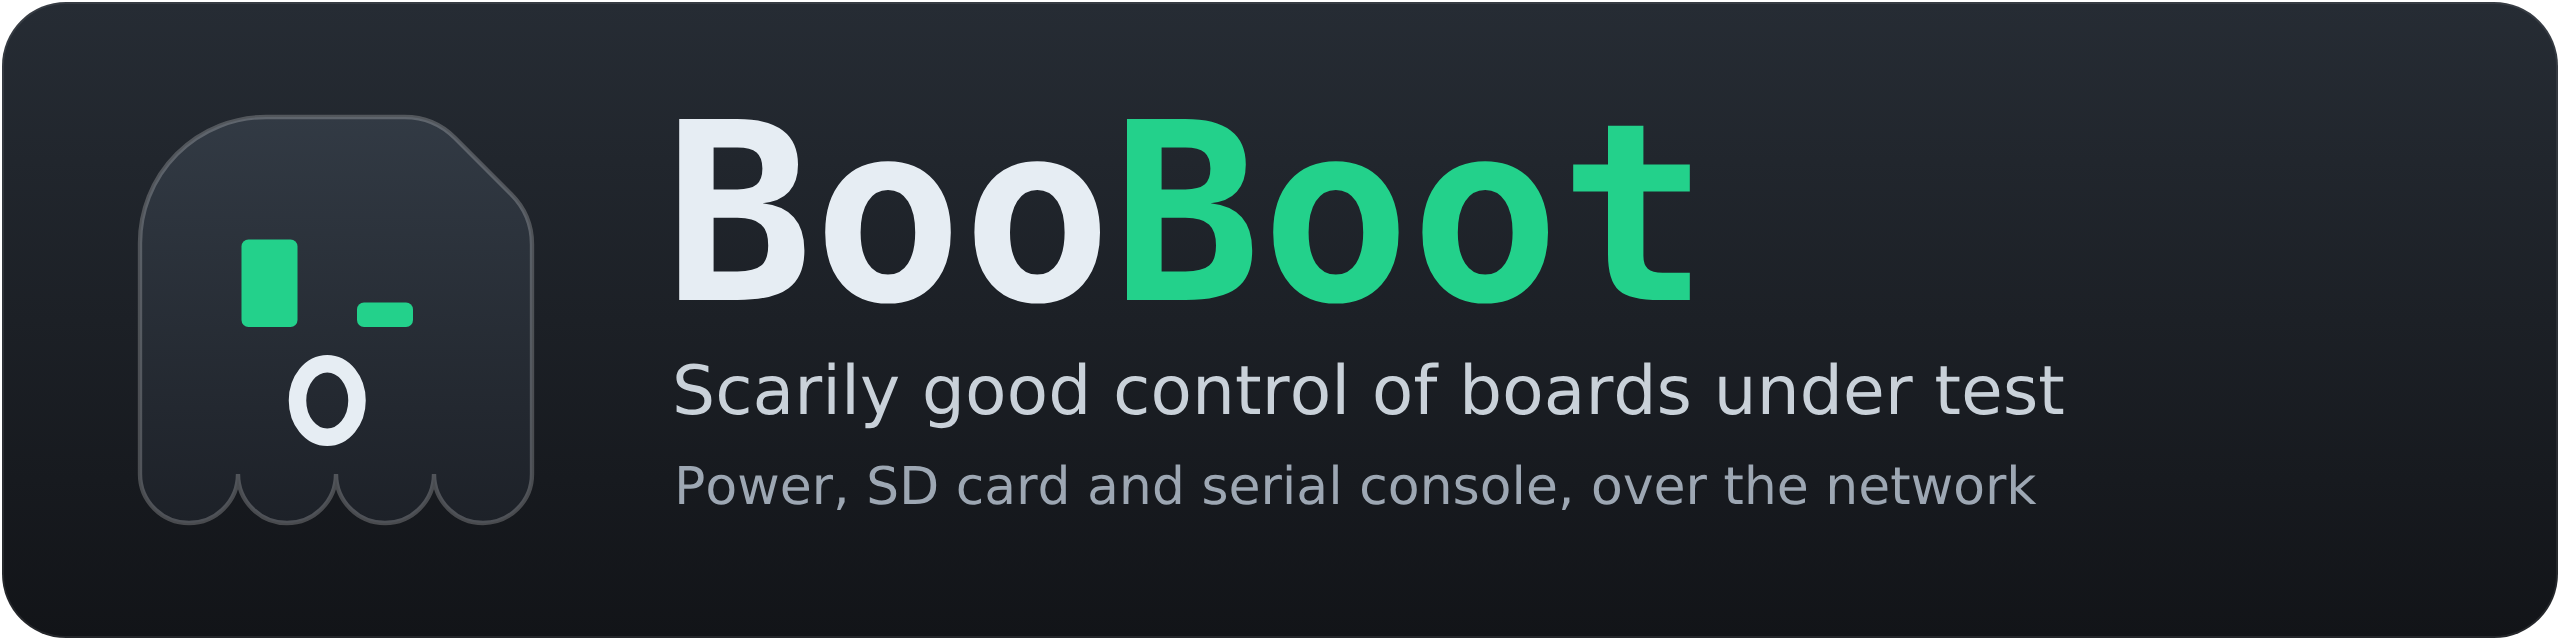
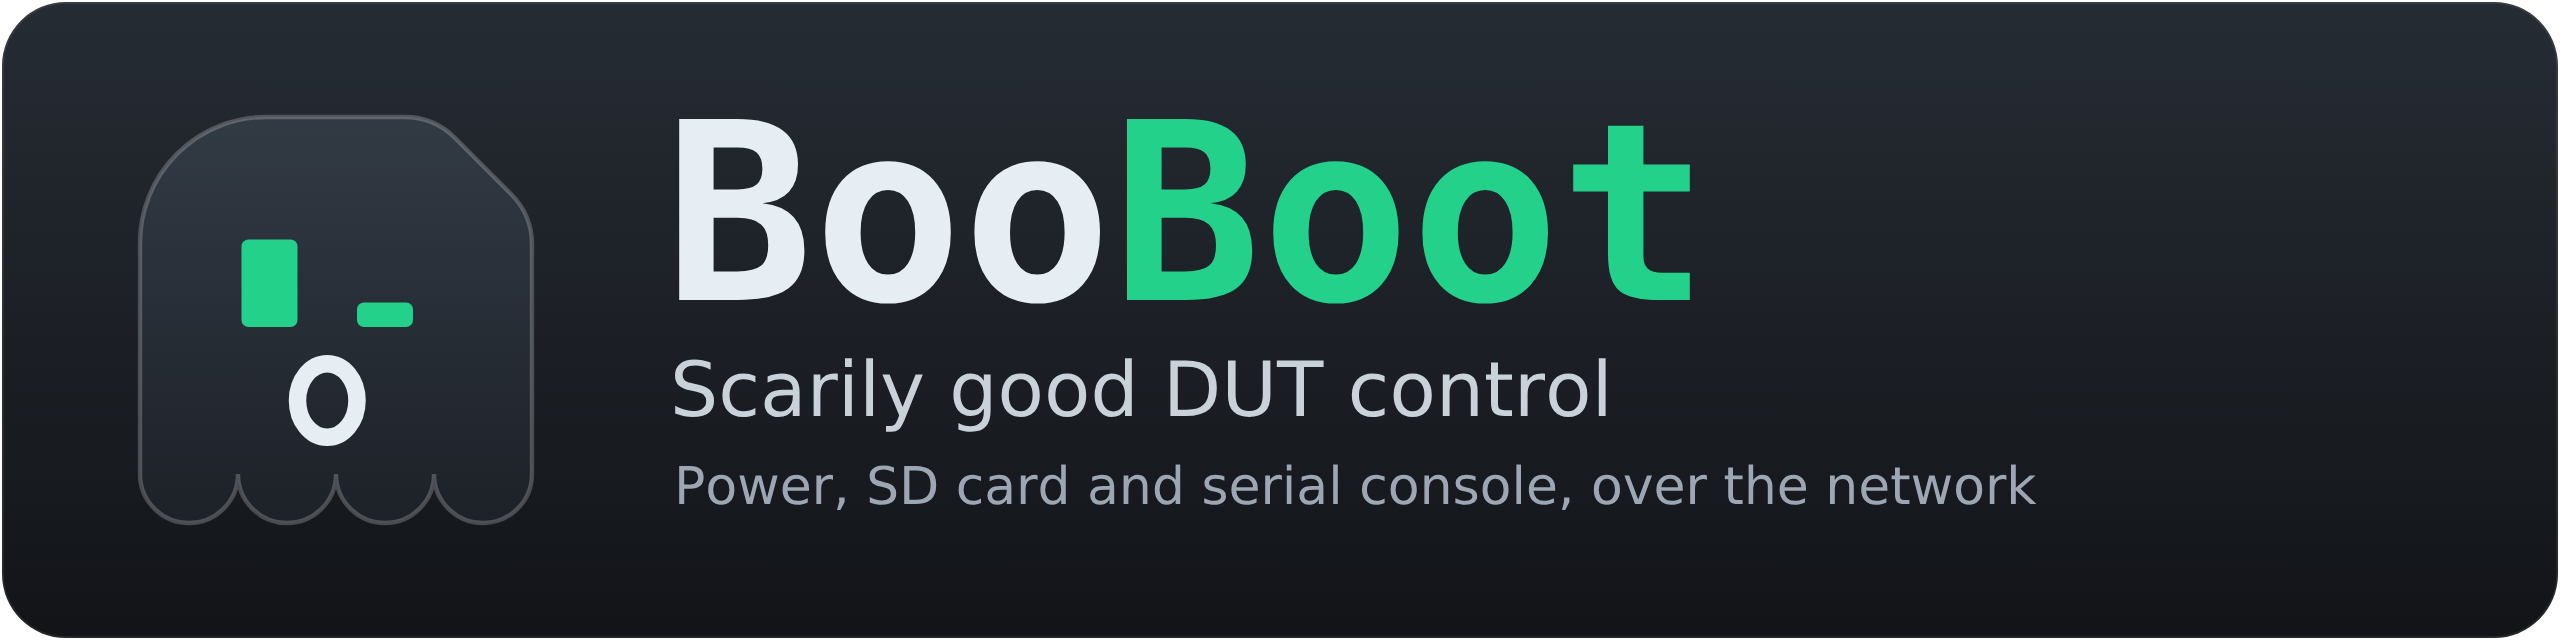
Use the tagline "Scarily good DUT control"
The banner, the README and the brand notes now say "Scarily good DUT
control", in a slightly larger size. It replaces "Scarily good control
of boards under test", which was long for a tagline.

Changed region(s): [[0.25, 0.5625, 0.8125, 0.6875]]

diff --git a/docs/brand/make.py b/docs/brand/make.py
@@ -30,7 +30,7 @@ GREEN = "#23D18B"
 DARK_GREEN = "#0E8A50"  # on light backgrounds
 LIGHT = "#E6EDF3"
 INK = "#1F2328"
-TAGLINE = "Scarily good control of boards under test"
+TAGLINE = "Scarily good DUT control"
 SUBLINE = "Power, SD card and serial console, over the network"
 
 GRADIENT = ('<linearGradient id="tile" x1="0" y1="0" x2="0" y2="1">'
@@ -117,7 +117,7 @@ def logo_svg(boo, boot):
 
 def banner_svg():
     words, _ = wordmark(332, 150, 124, LIGHT, GREEN)
-    tagline, _ = text(TAGLINE, SANS, 34, 336, 207)
+    tagline, _ = text(TAGLINE, SANS, 38, 335, 208)
     subline, _ = text(SUBLINE, SANS, 26, 337, 252)
     return ('<svg xmlns="http://www.w3.org/2000/svg" viewBox="0 0 1280 320">'
             f'<defs>{GRADIENT}<linearGradient id="panel" x1="0" y1="0" x2="0" y2="1">'

diff --git a/docs/brand/README.md b/docs/brand/README.md
@@ -32,7 +32,7 @@ everywhere, with no font to install.
 | Light | `#E6EDF3` | cursor; "Boo" on dark backgrounds |
 | Ink | `#1F2328` | "Boo" on light backgrounds |
 | Body | `#323A44` to `#1D2128` | ghost, top to bottom |
-| Silver | `#C9D1D9` | tagline: "Scarily good control of boards under test" |
+| Silver | `#C9D1D9` | tagline: "Scarily good DUT control" |
 | Gray | `#9DA7B3` | second line: "Power, SD card and serial console, over the network" |
 
 The name is in DejaVu Sans Mono Bold, the taglines in DejaVu Sans.

diff --git a/README.md b/README.md
@@ -1,4 +1,4 @@
-<p align="center"><img src="docs/brand/booboot-banner.svg" alt="BooBoot: scarily good control of boards under test" width="720"></p>
+<p align="center"><img src="docs/brand/booboot-banner.svg" alt="BooBoot: scarily good DUT control" width="720"></p>
 
 Remote control of an embedded board that boots from an SD card: power, SD
 card content and serial console, over the network.
